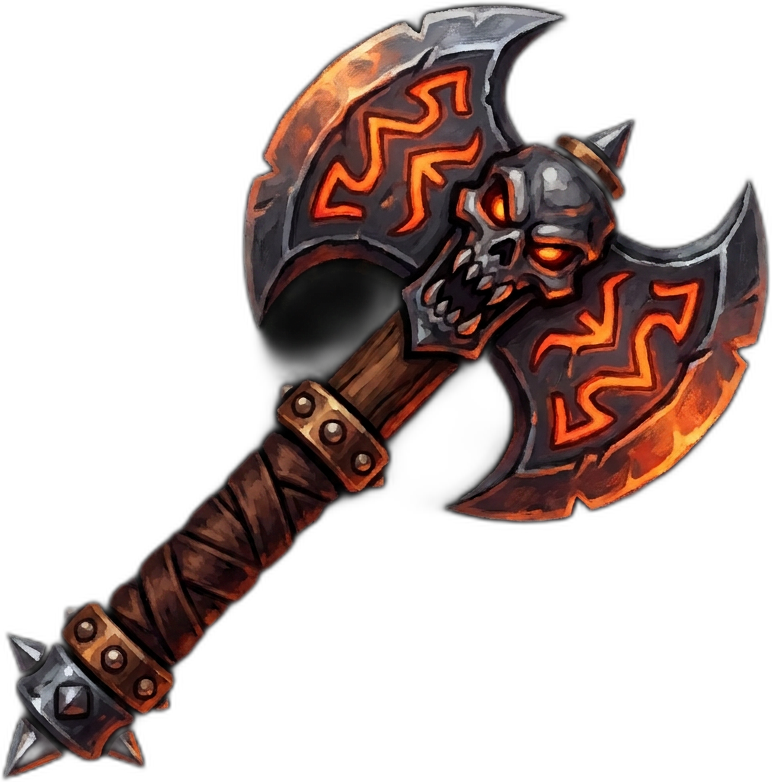
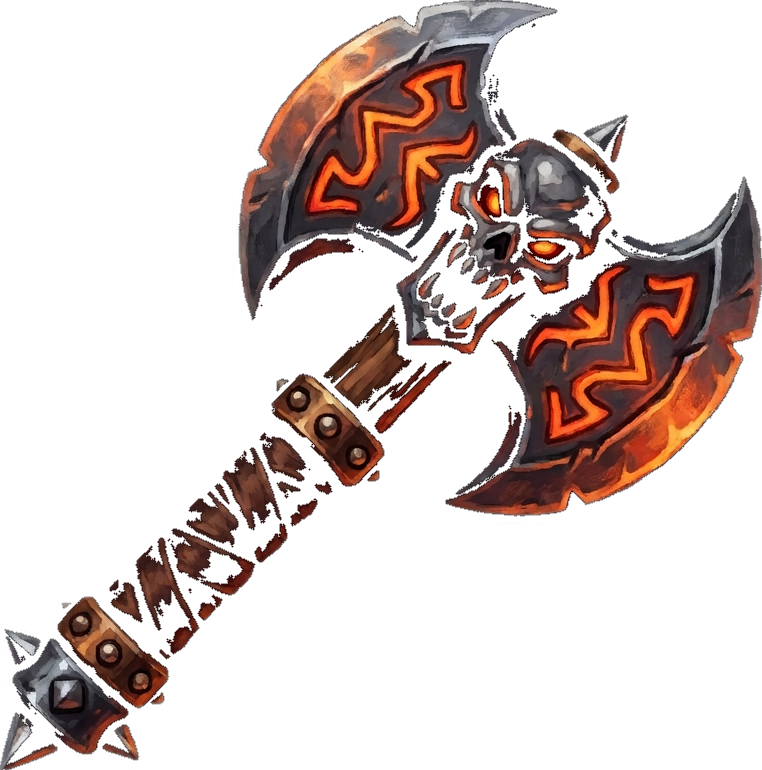
all levling bosses fixed

Changed region(s): [[0.0, 0.0, 1.0, 1.0]]

diff --git a/game.js b/game.js
@@ -61,6 +61,12 @@ const gorehuskFeetRImg=new Image();gorehuskFeetRImg.src='assets/boss/gorehusk_fe
 const bossLvlWeaponImg=new Image();bossLvlWeaponImg.src='assets/boss/bosslevling_weapon.png';
 const mawImg=new Image();mawImg.src='assets/boss/boss_levling2.png';
 const ossricImg=new Image();ossricImg.src='assets/boss/boss_levling3.png';
+const ashmawImg=new Image();ashmawImg.src='assets/boss/boss_levling1.png';
+const krevImg=new Image();krevImg.src='assets/boss/boss_levling5.png';
+const krevFeetLImg=new Image();krevFeetLImg.src='assets/boss/krev_feet_l.png';
+const krevFeetRImg=new Image();krevFeetRImg.src='assets/boss/krev_feet_r.png';
+const ashmawFeetLImg=new Image();ashmawFeetLImg.src='assets/boss/ashmaw_feet_l.png';
+const ashmawFeetRImg=new Image();ashmawFeetRImg.src='assets/boss/ashmaw_feet_r.png';
 const ossricFeetLImg=new Image();ossricFeetLImg.src='assets/boss/ossric_feet_l.png';
 const ossricFeetRImg=new Image();ossricFeetRImg.src='assets/boss/ossric_feet_r.png';
 const mawFeetLImg=new Image();mawFeetLImg.src='assets/boss/maw_feet_l.png';
@@ -74,7 +80,9 @@ const RAID_SKINS={ /* lift = body bottom in radii · wy/wx = weapon grip */
  frostking:{img:frostlordImg,feet:frostlordFeetImg,wpn:()=>raidSwordImg,glow:'#7fd0ff',lift:-0.18,wy:-0.31,wx:0.26,fs:0.72,fh:0.95,ox:-0.16},
  gorehusk:{img:gorehuskImg,feetL:gorehuskFeetLImg,feetR:gorehuskFeetRImg,wpn:()=>bossLvlWeaponImg,glow:'#7adf3a',lift:0.10,wy:-0.27,wx:0.44,size:7.5,fs:0.8,fh:1.12},
  maw:{img:mawImg,feetL:mawFeetLImg,feetR:mawFeetRImg,wpn:()=>bossLvlWeaponImg,glow:'#5bc8ff',lift:0.58,wy:-0.19,wx:0.44,size:7.5,fs:1.05,fh:1.12},
- ossric:{img:ossricImg,feetL:ossricFeetLImg,feetR:ossricFeetRImg,wpn:()=>bossLvlWeaponImg,glow:'#b0793a',lift:0.58,wy:-0.19,wx:0.44,size:7.5,fs:1.05,fh:1.12}};
+ ossric:{img:ossricImg,feetL:ossricFeetLImg,feetR:ossricFeetRImg,wpn:()=>bossLvlWeaponImg,glow:'#b0793a',lift:0.58,wy:-0.19,wx:0.44,size:7.5,fs:1.05,fh:1.12},
+ ashmaw:{img:ashmawImg,feetL:ashmawFeetLImg,feetR:ashmawFeetRImg,wpn:()=>bossLvlWeaponImg,glow:'#ff4a2a',lift:0.58,wy:-0.19,wx:0.44,size:7.5,fs:1.05,fh:1.12},
+ krev:{img:krevImg,feetL:krevFeetLImg,feetR:krevFeetRImg,wpn:()=>cowWeaponImg,glow:'#ff9a2a',lift:0.15,wy:-0.25,wx:0.44,size:7.5,fs:1.05,fh:1.12,ws:0.85}};
 const raidBladeCache={};
 function raidBlade(glow,img){ /* the lord's weapon soaked in his colour, cached per art+tint */
  img=img||cowWeaponImg;
@@ -2996,10 +3004,7 @@ function bossAI(en,dt){
    floatAt(en.x,en.y-en.r-30,'Whirlwind!','#e86a4a',true);
    en.lockT=0.95;
   }
-  if(en.cds.c<=0){en.cds.c=16*cdm;
-   if(addsAlive()<2){spawnAdd('Legionnaire','humanoid','#a04a3a');
-    floatAt(en.x,en.y-en.r-30,'To me!','#e8a08a',true);}
-  }
+  /* (legionnaire summons removed — the Warlord duels alone) */
  }else if(B==='betrayer'){ /* wide warglaive fan, fel adds, twin eye beams, metamorphosis */
   if(en.cds.a<=0){en.cds.a=5;
    const base=Math.atan2(T.y-en.y,T.x-en.x);
@@ -4881,7 +4886,7 @@ function drawEnemy(en){
   ctx.drawImage(mip(raidSkin.img,W),-W/2+en.r*(raidSkin.ox||0),en.r*raidSkin.lift-H+by,W,H); /* body floats above the feet */
   const bl=raidBlade(raidSkin.glow,raidSkin.wpn?raidSkin.wpn():null);
   if(bl){
-   const AH=H*0.6,AW=AH*bl.width/bl.height;
+   const AH=H*(raidSkin.ws||0.6),AW=AH*bl.width/bl.height;
    const bfx=(hero&&hero.x<en.x)?-1:1; /* held on the side it strikes */
    ctx.save();ctx.translate(bfx*W*raidSkin.wx,H*raidSkin.wy+by);ctx.scale(bfx,1);ctx.rotate(0.5+(en.swing?(0.2-en.swing)*7:0));
    ctx.shadowColor=raidSkin.glow;ctx.shadowBlur=16+6*Math.sin(now/160);